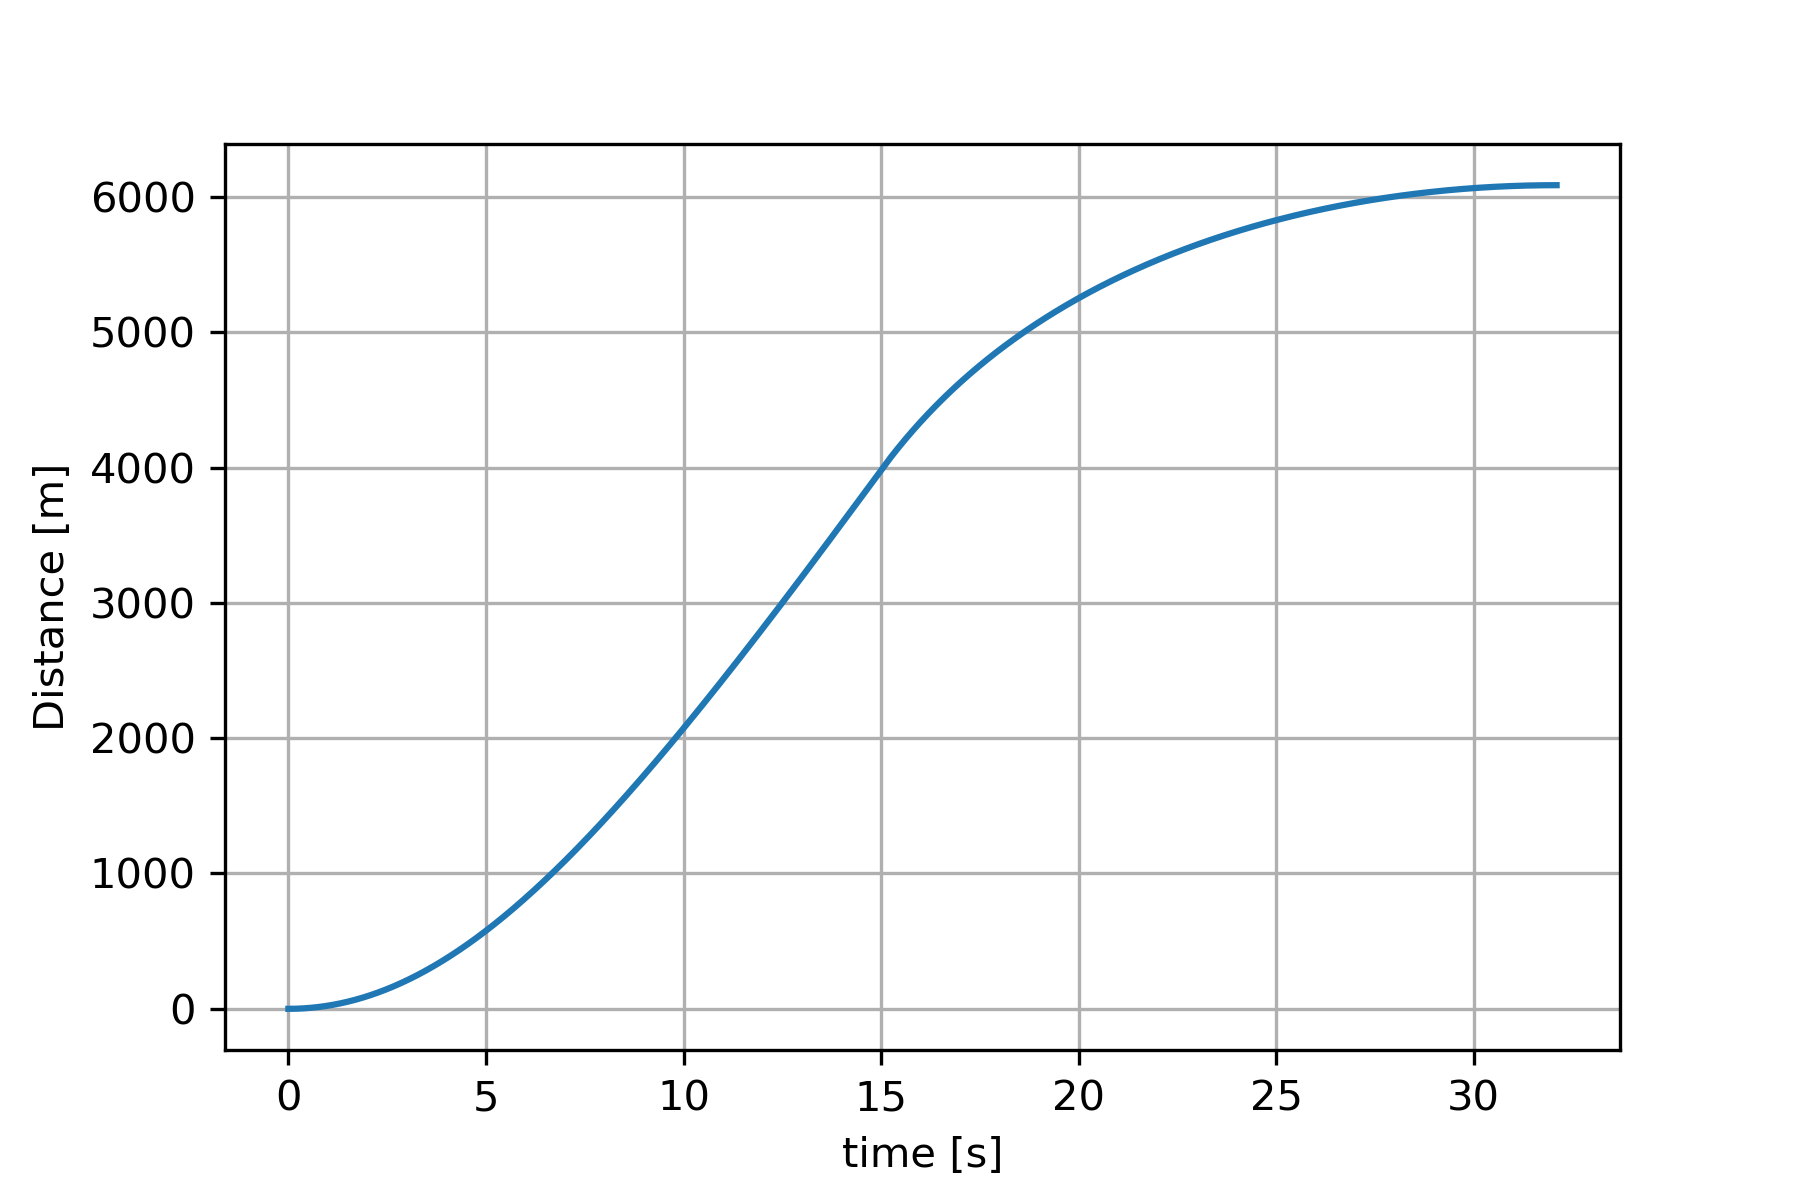
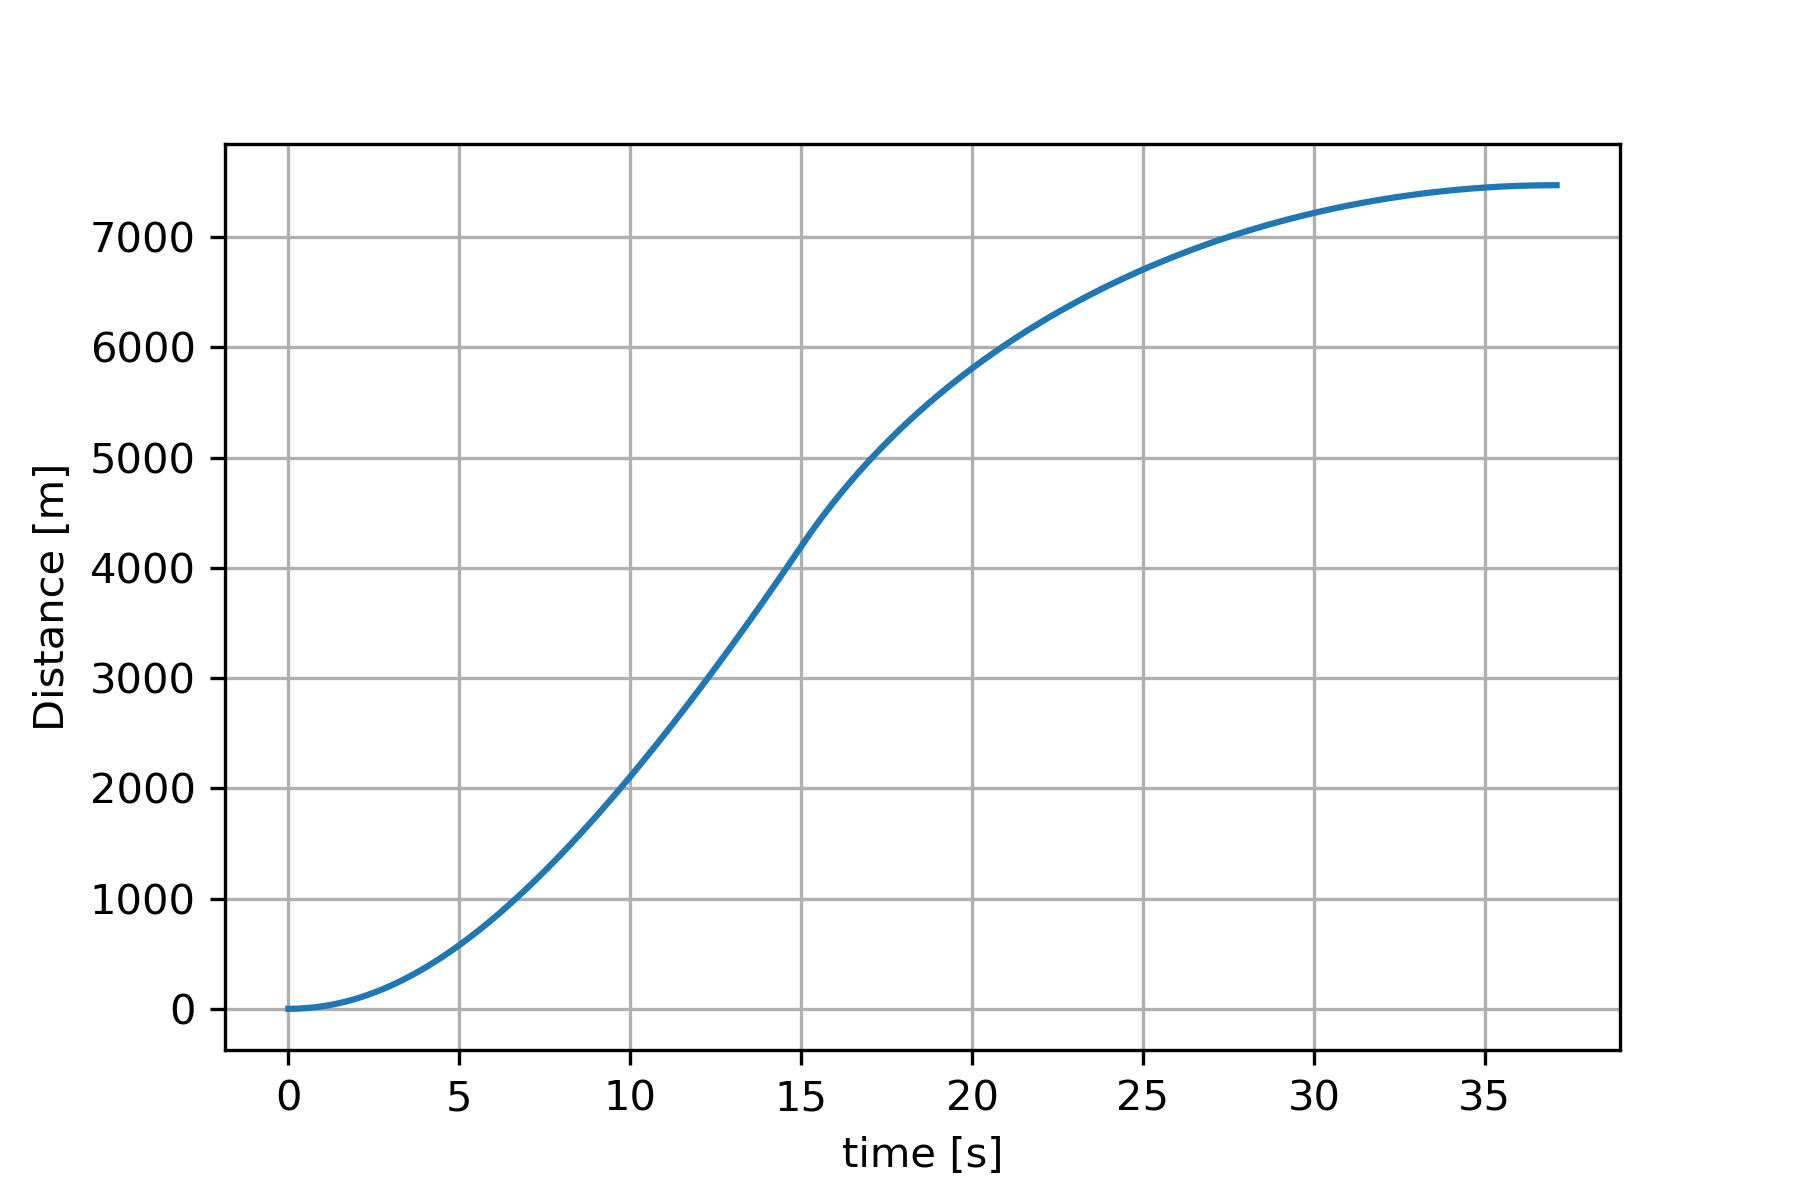
Atm Model incorporated

diff --git a/Trajectory/LaunchSim_00.py b/Trajectory/LaunchSim_00.py
@@ -18,6 +18,18 @@ def drag(rho, v, s, Cd):
     Fd = -.5*rho*v**2*s*Cd
     return Fd
 
+def density(h):
+    p0 = 101325     #Pa
+    T0 = 288.15     #K
+    g0 = 9.80665    #m/s/s
+    L = 0.0065      #temperature lapse rate K/m
+    R = 8.31446     #Universal Gas Constant
+    M = 0.0289652   #kg/mol (molar mass of dry air)
+    rho = ((p0*M)/(R*T0))*(1-L*h/T0)**(((g0*M)/(R*L))-1)
+    return rho
+    
+    
+
 def terminate(h1, h0, dt):
     run = True
     hdot = (h1 - h0)/dt
@@ -43,13 +55,16 @@ def solver(tb, mdot, ms, Ft, s, Cd, dt):
     v = [v0]
     a = [a0]
     F = [F0]
+    rho = [density(h[0])]
     time = [t]
+    
     
     
     run = True
     count = 0
     while run:
-        Fsum = gravity(m[count], h[count]) + drag(1.225, v[count], s, Cd)
+        
+        Fsum = gravity(m[count], h[count]) + drag(rho[count], v[count], s, Cd)
         if m[count] > ms:
             Fsum += Ft
             m1 = m[count] - mdot*dt
@@ -63,13 +78,14 @@ def solver(tb, mdot, ms, Ft, s, Cd, dt):
         a1 = Fsum/m[count]
         a.append(a1)
         
-        
-        
         v1 = v[count] + (a[count+1]+a[count])*dt*0.5
         v.append(v1)
         
         h1 = h[count] + (v[count+1]+v[count])*dt*0.5
         h.append(h1)
+        
+        rho1 = density(h[count])
+        rho.append(rho1)
         
         t = t + dt
         time.append(t)
@@ -82,7 +98,7 @@ def solver(tb, mdot, ms, Ft, s, Cd, dt):
         
         count = count + 1
     print("Time: ",t," Force: ",Fsum," Acc: ", a1," v: ", v1, " h: ", h1, " Mass: ", m1 )    
-    return m,h,v,a,F,time
+    return m,h,v,a,F,rho,time
         
 """Rocket Parameters"""
 thrust = 1500   #N
@@ -91,12 +107,11 @@ ms = 15         #kg
 s = np.pi*(.075**2)
 Cd = 0.75
 
-rho = 1.225     #kg/m^3
 burn_time = 15  #s 
 dt = 0.002 #time step, s
 
 #tb, mdot, ms, Ft, s, Cd, dt
-m,h,v,a,F,t = solver(burn_time, mdot, ms, thrust, s, Cd, dt)
+m,h,v,a,F,rho,t = solver(burn_time, mdot, ms, thrust, s, Cd, dt)
 
 
 plt.figure(1)
@@ -142,6 +157,17 @@ plt.ylabel("Acceleration [m/s^2]")
 
 plt.savefig('Acceleration_vs_time.png', dpi=300)
 
+
+plt.figure(5)
+plt.clf()
+
+plt.plot(h, rho)
+
+plt.grid(1)
+plt.xlabel("height [m]")
+plt.ylabel("Atmospheric Density [kg/m^3]")
+
+plt.savefig('Density_vs_height.png', dpi=300)
 
 
     
